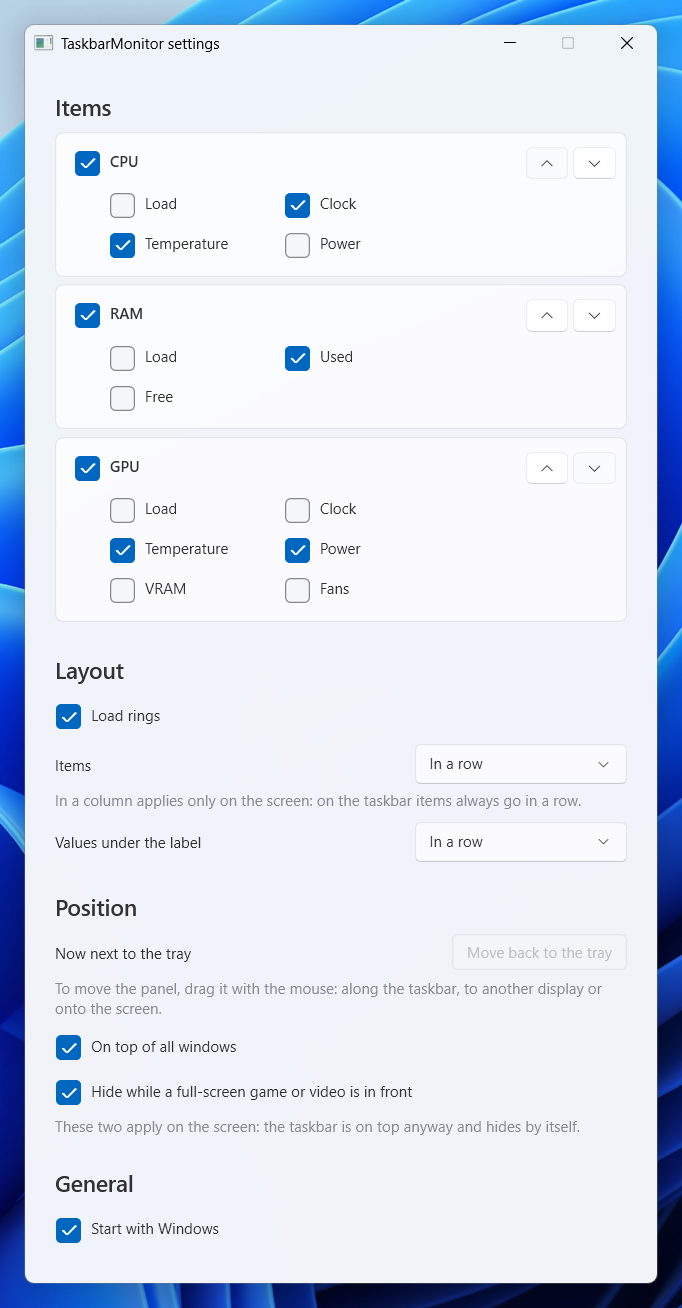
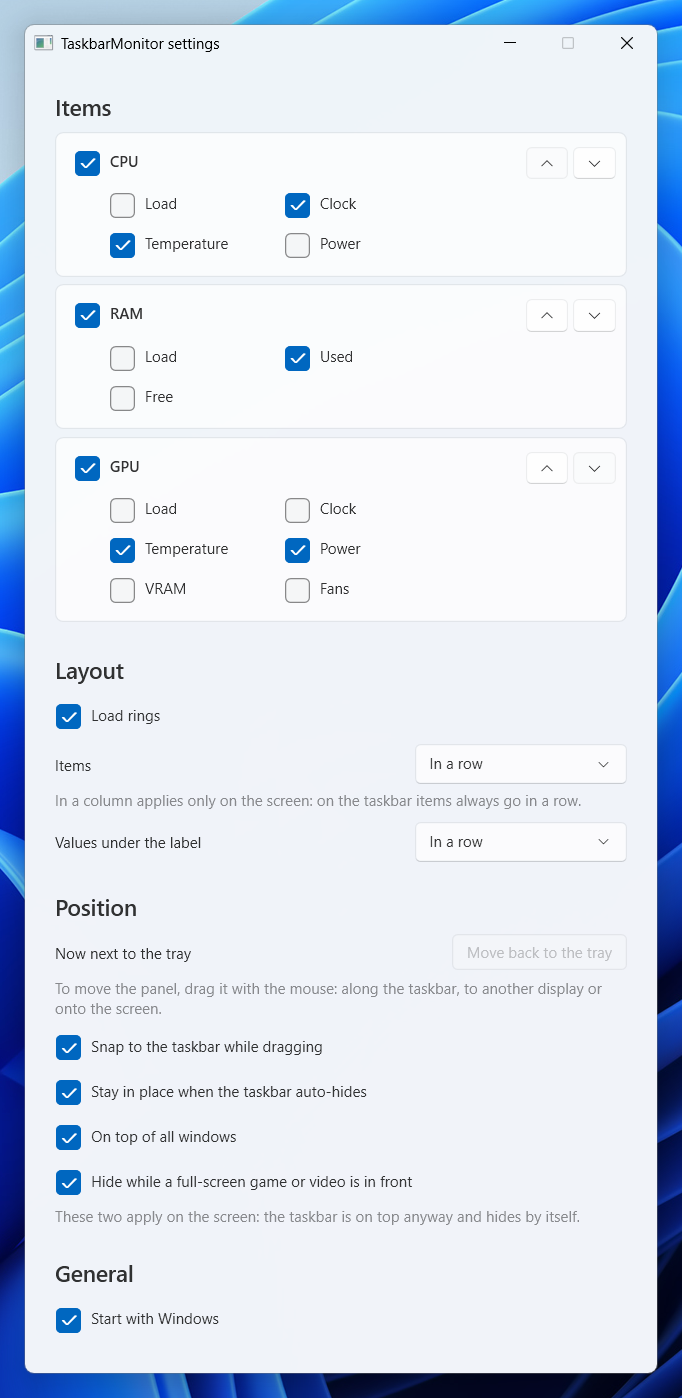
Stay in place when the taskbar auto-hides; option to turn off snapping
When an auto-hiding taskbar hides, the panel no longer slides away with
it: it stays at the same spot as a card on top of other windows and goes
back into the taskbar when the taskbar shows up. It hides in full-screen
apps, like the taskbar. A light 100 ms check makes the switch quick.

Both are settings: "Stay in place when the taskbar auto-hides" and "Snap
to the taskbar while dragging" (off: the dragged panel stays a card and,
dropped over the taskbar, rests right above it). Settings screenshots in
the README are updated.

diff --git a/src/TaskbarPanel.cs b/src/TaskbarPanel.cs
@@ -49,6 +49,10 @@ internal sealed class TaskbarPanel : IDisposable
 
     // Перетаскивание: пока кнопка мыши зажата, панель едет за курсором (кнопку опрашивает таймер, чтобы не зависеть от окна под курсором).
     readonly DispatcherTimer _drag = new(DispatcherPriority.Input) { Interval = TimeSpan.FromMilliseconds(16) };
+    // Автоскрытие панели задач: как только она начала прятаться, панель становится карточкой на том же месте,
+    // а когда показалась — встраивается обратно. Проверка дешёвая, поэтому частая.
+    readonly DispatcherTimer _watch = new(DispatcherPriority.Background) { Interval = TimeSpan.FromMilliseconds(100) };
+    IntPtr _bar;   // панель задач, на которой стоит панель; IntPtr.Zero — панель на экране
     bool _pressed, _dragging;
     POINT _press, _cursor;
     double _grabX, _grabY;   // за какое место взяли панель — в долях её ширины и высоты
@@ -85,6 +89,8 @@ internal sealed class TaskbarPanel : IDisposable
         _details = new DetailsFlyout(_instance);
         _frames.Tick += (_, _) => Animate();
         _drag.Tick += (_, _) => DragStep();
+        _watch.Tick += (_, _) => WatchTaskbar();
+        _watch.Start();
     }
 
     /// <param name="widgets">Где на экране кнопка «Виджеты»; null — её нет.</param>
@@ -118,9 +124,11 @@ internal sealed class TaskbarPanel : IDisposable
         _k = layout.K;
         _margin = layout.Margin;
         _docked = layout.Bar != IntPtr.Zero;
+        _bar = layout.Bar;
 
         // Отдельная панель прячется, пока впереди игра или видео на весь экран, — как и панель задач.
-        if (!_dragging && layout.Parent == IntPtr.Zero && _settings.HideInFullscreen && Displays.FullscreenApp(layout.Display))
+        // Оставшаяся на месте спрятанной панели задач прячется всегда: сама панель задач в играх тоже не видна.
+        if (!_dragging && layout.Parent == IntPtr.Zero && (_docked || _settings.HideInFullscreen) && Displays.FullscreenApp(layout.Display))
         {
             _showDetails = false;
             _details.Hide();
@@ -142,7 +150,19 @@ internal sealed class TaskbarPanel : IDisposable
             return Floating(Displays.At(at), at, clamp: true);
         }
         IntPtr bar = _settings.Placement == Placement.Taskbar ? Displays.Taskbar(_settings.Display) : FindWindow("Shell_TrayWnd", null);
-        return bar == IntPtr.Zero ? null : Docked(bar, _settings.Placement == Placement.Taskbar ? _settings.X : null, embedded: true);
+        if (bar == IntPtr.Zero) return null;
+        double? x = _settings.Placement == Placement.Taskbar ? _settings.X : null;
+        if (!_settings.StayWhenTaskbarHides || !Displays.Hidden(bar)) return Docked(bar, x, embedded: true);
+        // Панель задач спрятана автоскрытием: панель остаётся на её месте карточкой поверх окон.
+        Layout stay = Docked(bar, x, embedded: false);
+        return stay with { Margin = (int)Math.Round(CardShadow * stay.K) };
+    }
+
+    /// <summary>Панель задач спряталась или показалась — панель переходит в карточку на её месте или обратно.</summary>
+    void WatchTaskbar()
+    {
+        if (_dragging || _bar == IntPtr.Zero || _settings.Placement == Placement.Screen || !_settings.StayWhenTaskbarHides) return;
+        if (Displays.Hidden(_bar) != (_parent == IntPtr.Zero)) Refresh();
     }
 
     /// <summary>
@@ -195,11 +215,11 @@ internal sealed class TaskbarPanel : IDisposable
 
     /// <summary>
     /// Перетаскиваемая панель едет за курсором. Над панелью задач любого монитора или чуть выше неё
-    /// панель примагничивается: встаёт в неё по высоте и выглядит как встроенная.
+    /// панель примагничивается (если это не выключено): встаёт в неё по высоте и выглядит как встроенная.
     /// </summary>
     Layout DragLayout()
     {
-        foreach (IntPtr bar in Displays.Taskbars())
+        foreach (IntPtr bar in _settings.SnapToTaskbar ? Displays.Taskbars() : [])
         {
             RECT r = Displays.Shown(bar);
             double k = (r.Bottom - r.Top) / 60.0;
@@ -244,7 +264,7 @@ internal sealed class TaskbarPanel : IDisposable
         bool moved = origin.X != _placed.Left || origin.Y != _placed.Top || w != _placed.Right - _placed.Left || h != _placed.Bottom - _placed.Top;
         bool covered = _parent != IntPtr.Zero && GetWindow(_hwnd, GW_HWNDPREV) != IntPtr.Zero;   // Проводник поднял над панелью своё окно
         if (!moved && !covered && IsWindowVisible(_hwnd)) return;
-        IntPtr z = _parent != IntPtr.Zero ? HWND_TOP : _dragging || _settings.OnTop ? HWND_TOPMOST : HWND_NOTOPMOST;
+        IntPtr z = _parent != IntPtr.Zero ? HWND_TOP : _dragging || _docked || _settings.OnTop ? HWND_TOPMOST : HWND_NOTOPMOST;
         SetWindowPos(_hwnd, z, origin.X, origin.Y, w, h, SWP_NOACTIVATE | SWP_SHOWWINDOW);
         _placed = new RECT { Left = origin.X, Top = origin.Y, Right = origin.X + w, Bottom = origin.Y + h };
     }
@@ -474,6 +494,7 @@ internal sealed class TaskbarPanel : IDisposable
     {
         _frames.Stop();
         _drag.Stop();
+        _watch.Stop();
         _settingsWindow?.Close();
         DestroyPanel();
         _details.Dispose();

diff --git a/src/Strings.cs b/src/Strings.cs
@@ -42,6 +42,12 @@ internal static class Strings
     public static readonly string PlaceHint = Russian
         ? "Чтобы переставить панель, перетащите её мышью: вдоль панели задач, на другой монитор или на экран."
         : "To move the panel, drag it with the mouse: along the taskbar, to another display or onto the screen.";
+    public static readonly string SnapToTaskbar = Russian
+        ? "Примагничиваться к панели задач при перетаскивании"
+        : "Snap to the taskbar while dragging";
+    public static readonly string StayWhenTaskbarHides = Russian
+        ? "Оставаться на месте, когда панель задач скрывается"
+        : "Stay in place when the taskbar auto-hides";
     public static readonly string OnTop = Russian ? "Поверх всех окон" : "On top of all windows";
     public static readonly string HideInFullscreen = Russian
         ? "Прятать, пока открыта игра или видео на весь экран"

diff --git a/src/Settings.cs b/src/Settings.cs
@@ -45,6 +45,10 @@ internal sealed record Settings
     /// <summary>На панели задач — центр панели в долях её ширины; на экране — левый верхний угол в пикселях.</summary>
     public double X { get; init; }
     public double Y { get; init; }
+    /// <summary>Перетаскиваемая панель примагничивается к панели задач и встраивается в неё.</summary>
+    public bool SnapToTaskbar { get; init; } = true;
+    /// <summary>Панель задач спрятана автоскрытием — панель остаётся на месте отдельной карточкой.</summary>
+    public bool StayWhenTaskbarHides { get; init; } = true;
     /// <summary>Панель на экране — поверх всех окон.</summary>
     public bool OnTop { get; init; } = true;
     /// <summary>Панель на экране прячется, пока впереди приложение на весь экран.</summary>

diff --git a/src/Widgets.cs b/src/Widgets.cs
@@ -30,7 +30,7 @@ internal sealed class Widgets
             if (tray == IntPtr.Zero) return null;
             // Пока панель задач спрятана автоскрытием, Проводник может убрать кнопку, а при показе создать заново.
             // Поэтому до полного показа кнопка считается на прежнем месте.
-            if (Hidden(tray))
+            if (Displays.Hidden(tray))
             {
                 _lastSeen = now;
                 return _last;
@@ -61,8 +61,4 @@ internal sealed class Widgets
                 return button;
         return null;
     }
-
-    /// <summary>Панель задач скрыта или уехала за нижний край экрана: спрятана автоскрытием, прячется или показывается.</summary>
-    static bool Hidden(IntPtr tray) =>
-        !IsWindowVisible(tray) || GetWindowRect(tray, out RECT bar) && bar.Bottom > Displays.Of(tray).Bounds.Bottom;
 }

diff --git a/src/SettingsWindow.cs b/src/SettingsWindow.cs
@@ -46,6 +46,8 @@ internal sealed class SettingsWindow : Window
         root.Children.Add(Header(Strings.PlaceHeader));
         root.Children.Add(PlaceRow());
         root.Children.Add(Hint(Strings.PlaceHint));
+        root.Children.Add(Toggle(Strings.SnapToTaskbar, () => _get().SnapToTaskbar, v => Apply(_get() with { SnapToTaskbar = v })));
+        root.Children.Add(Toggle(Strings.StayWhenTaskbarHides, () => _get().StayWhenTaskbarHides, v => Apply(_get() with { StayWhenTaskbarHides = v })));
         root.Children.Add(Toggle(Strings.OnTop, () => _get().OnTop, v => Apply(_get() with { OnTop = v })));
         root.Children.Add(Toggle(Strings.HideInFullscreen, () => _get().HideInFullscreen, v => Apply(_get() with { HideInFullscreen = v })));
         root.Children.Add(Hint(Strings.ScreenOnlyHint));

diff --git a/src/Displays.cs b/src/Displays.cs
@@ -56,6 +56,10 @@ internal static class Displays
             && GetWindowRect(window, out RECT r) && r.Left <= b.Left && r.Top <= b.Top && r.Right >= b.Right && r.Bottom >= b.Bottom;
     }
 
+    /// <summary>Панель задач скрыта или уехала за нижний край экрана: спрятана автоскрытием, прячется или показывается.</summary>
+    public static bool Hidden(IntPtr bar) =>
+        !IsWindowVisible(bar) || GetWindowRect(bar, out RECT r) && r.Bottom > Of(bar).Bounds.Bottom;
+
     /// <summary>Где панель задач, когда она видна: спрятанная автоскрытием уезжает за нижний край монитора.</summary>
     public static RECT Shown(IntPtr bar)
     {

diff --git a/README.ru.md b/README.ru.md
@@ -17,8 +17,9 @@
   CPU; загрузка, занято и свободно у памяти; загрузка, частота, температура, потребление, видеопамять
   и вентиляторы у GPU.
 - Окно настроек (правый клик → «Настройки…»): показать, скрыть и переставить CPU, RAM и GPU, выбрать их
-  значения, включить или выключить кольца, расположить элементы и значения в строку или столбиком, держать
-  карточку поверх окон, прятать её в приложениях на весь экран. Изменения применяются сразу.
+  значения, включить или выключить кольца, расположить элементы и значения в строку или столбиком,
+  примагничивать к панели задач или нет, оставаться на месте при автоскрытии панели задач, держать карточку
+  поверх окон, прятать её в приложениях на весь экран. Изменения применяются сразу.
 - Карточка при наведении: загрузка, частота, температура и потребление CPU; загрузка, занято и свободно
   у памяти; загрузка, частота, температура, потребление и его лимит, видеопамять и вентиляторы у GPU.
   Температура окрашивается от обычного цвета до красного.
@@ -26,7 +27,8 @@
   на экране), вернуть к трею, автозапуск, выход.
 - Панель можно перетащить мышью куда угодно: вдоль панели задач, на панель задач другого монитора или на экран —
   отдельной карточкой. У панели задач она примагничивается. По умолчанию карточка поверх окон и прячется,
-  пока впереди приложение на весь экран, — как и панель задач.
+  пока впереди приложение на весь экран, — как и панель задач. Когда панель задач скрывается
+  автоматически, панель остаётся на месте карточкой.
 - Светлая и тёмная панель задач, любое разрешение и масштаб. Язык — русский или английский, как у Windows.
 - Права администратора не нужны.
 

diff --git a/README.md b/README.md
@@ -16,15 +16,17 @@ Hover over it to see the details.
 - Under each label — any values you pick in the settings: CPU load, clock, temperature, power; RAM load,
   used, free; GPU load, clock, temperature, power, VRAM, fans.
 - Settings window (right-click → Settings…): show, hide and reorder CPU, RAM and GPU, choose their values,
-  turn the rings on or off, put items and values in a row or in a column, keep the card on top of other
-  windows, hide it in full-screen apps. Changes apply at once.
+  turn the rings on or off, put items and values in a row or in a column, snap to the taskbar or not,
+  stay in place when the taskbar auto-hides, keep the card on top of other windows, hide it in full-screen
+  apps. Changes apply at once.
 - Hover card: CPU load, clock, temperature and power; RAM load, used and free; GPU load, clock,
   temperature, power and its limit, VRAM, fans. Temperatures are colored from normal to red.
 - Click opens Task Manager. Right-click menu: settings, pin on top (for the card on the screen),
   move back to the tray, start with Windows, exit.
 - Drag the panel with the mouse anywhere: along the taskbar, onto the taskbar of another display, or onto
   the screen as a separate card. Near a taskbar it snaps into it. By default the card stays on top of other
-  windows and hides while a full-screen app is in front, like the taskbar.
+  windows and hides while a full-screen app is in front, like the taskbar. When an auto-hiding taskbar
+  hides, the panel stays in place as a card.
 - Light and dark taskbar, any resolution and display scale. English or Russian, following Windows.
 - No administrator rights required.
 
